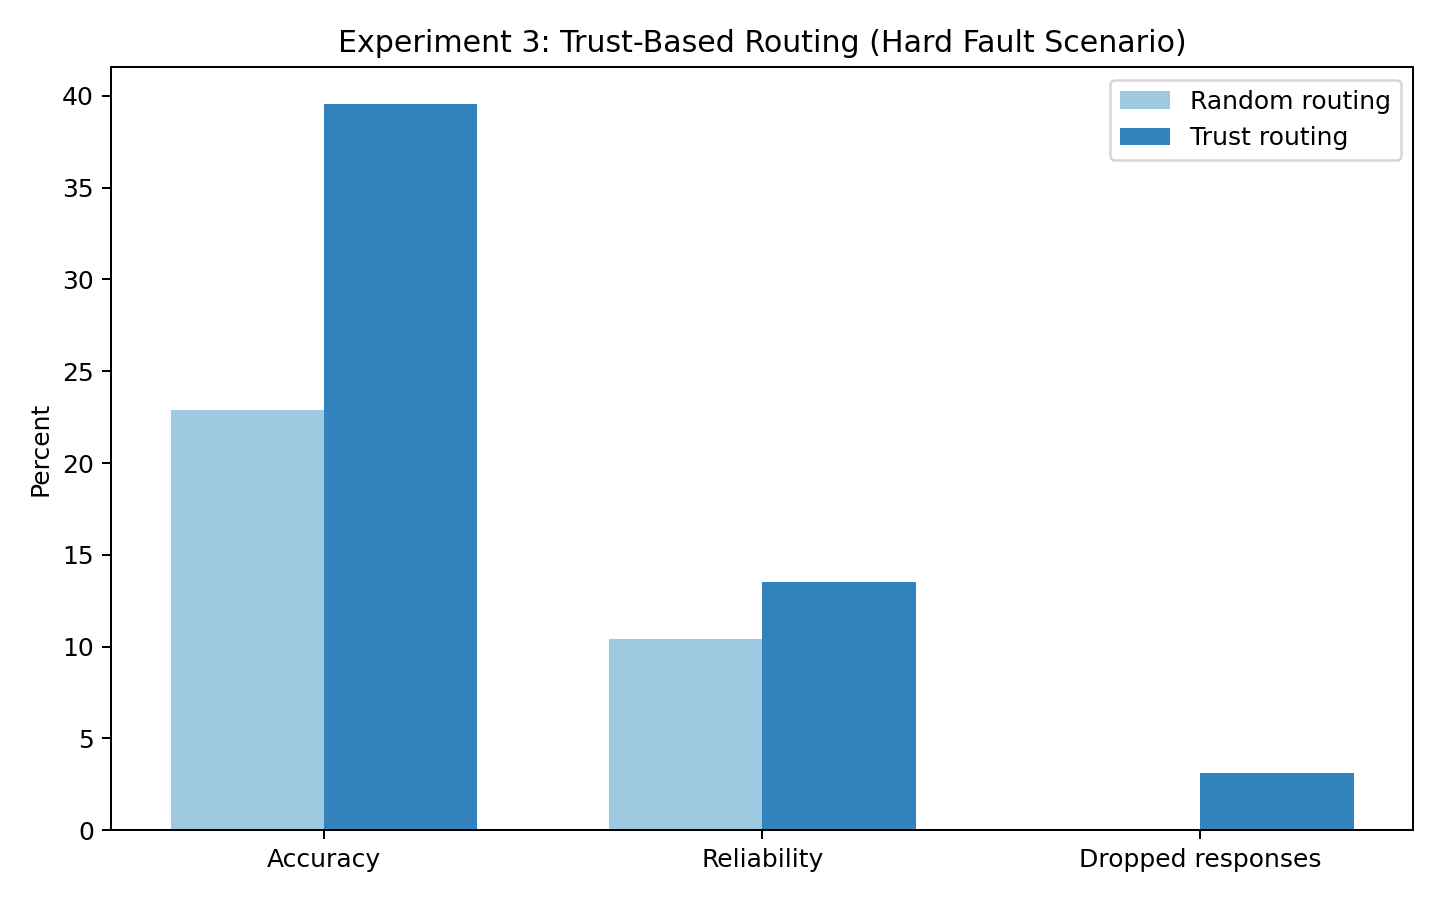
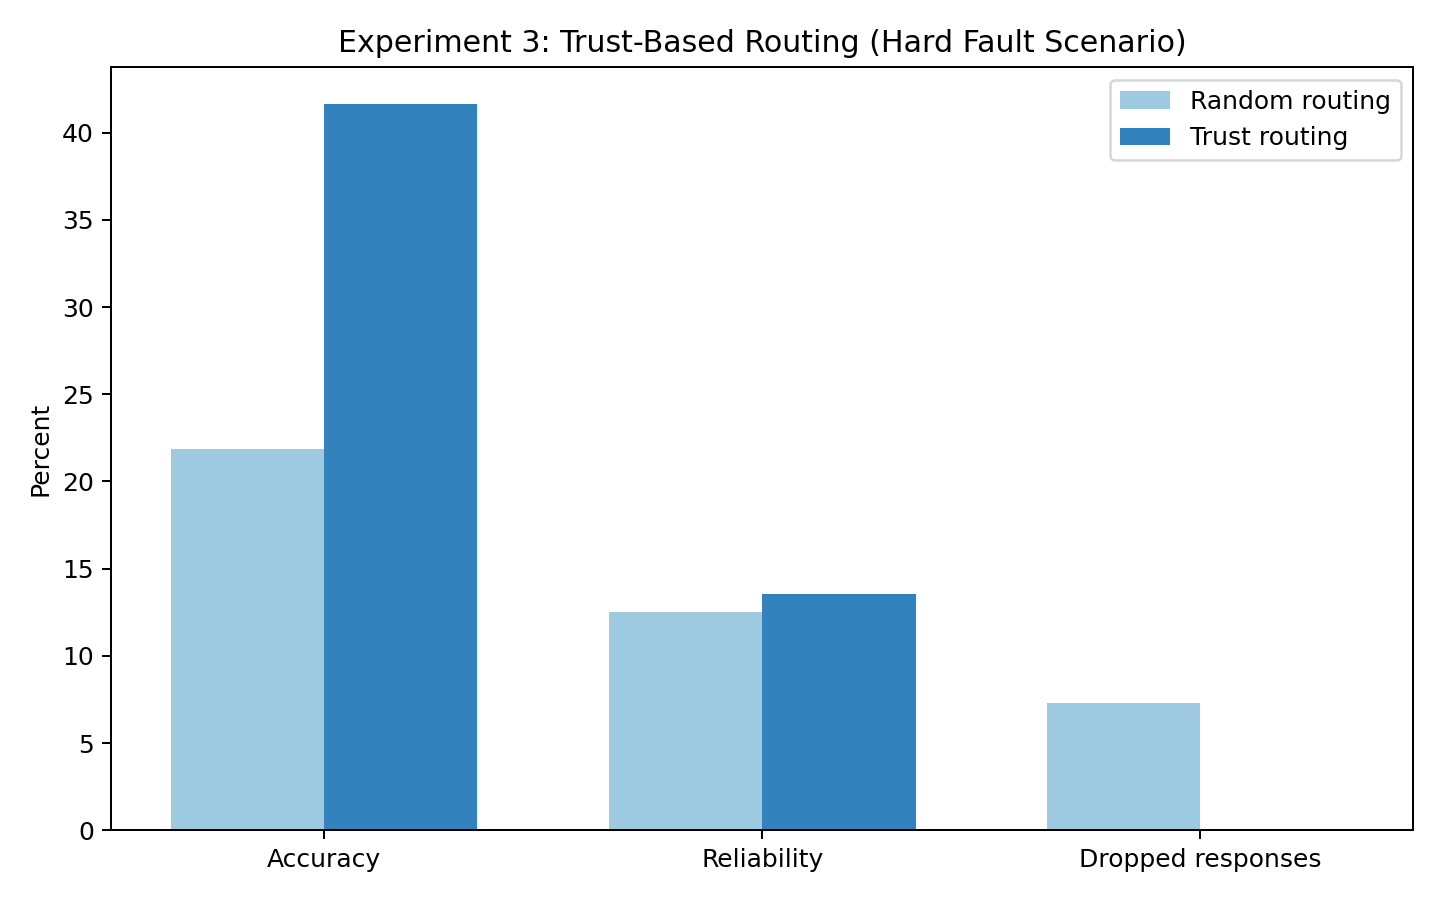
Align routing reliability with trust fallback

diff --git a/trust/routing.py b/trust/routing.py
@@ -140,7 +140,7 @@ def simulate_routing_policy(
     trust_scale: float = 0.20,
     trust_alpha: float = 0.1,
     trust_decay: float = 0.85,
-    max_attempts_per_stage: int = 2,
+    max_attempts_per_stage: int = 1,
 ) -> Dict[str, object]:
     if policy not in ("random", "trust"):
         raise ValueError("Unknown routing policy: {0}".format(policy))
@@ -191,8 +191,11 @@ def simulate_routing_policy(
             base_probs = np.asarray(test_pred[stage_idx, sample_idx], dtype=np.float64)
             base_score = float(test_scores[stage_idx, sample_idx])
 
+            # Trust routing uses ranked fallback across all replicas. Random routing
+            # gets only blind attempts, so a dropped peer can drop the request.
+            attempt_limit = len(stage_peers) if policy == "trust" else max_attempts_per_stage
             for attempt_idx, peer in enumerate(stage_peers):
-                if attempt_idx >= max_attempts_per_stage:
+                if attempt_idx >= attempt_limit:
                     break
                 latency = seconds[stage_idx] * peer.latency_multiplier
                 if rng.random() < peer.spike_prob:

diff --git a/outputs/prism_experiments_full_16/summary.md b/outputs/prism_experiments_full_16/summary.md
@@ -3,11 +3,11 @@
 ## Best / Worst / Average
 - Best case: trust routing in the easy scenario reached 68.75% accuracy with 100.00% reliability.
 - Average case: trust routing in the medium scenario reached 66.67% accuracy with 66.67% on-time reliability and 0.00% dropped responses.
-- Worst case: random routing in the hard scenario fell to 22.92% accuracy with 10.42% reliability.
+- Worst case: random routing in the hard scenario fell to 21.88% accuracy with 12.50% on-time reliability.
 
 ## Takeaways
 - Early exits reduce compute: exit 1 is the fastest point, while later exits recover accuracy.
 - The strongest clean-budget result came from EENet at 6.00 ms with 68.75% accuracy.
-- Reliability now measures completed responses that stay within the latency budget, not just any returned response.
-- In the hard scenario, trust routing improved accuracy from 22.92% to 39.58% and on-time reliability from 10.42% to 13.54%.
+- Reliability measures completed responses that stay within the latency budget, not just any returned response.
+- In the hard scenario, trust routing eliminated dropped responses from 7.29% to 0.00% while improving accuracy from 21.88% to 41.67%.
 - Per-exit metrics and trust-routing summaries were written alongside the plots for the report.
